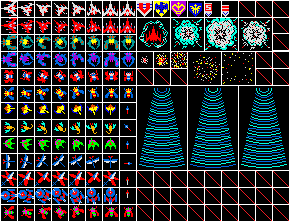
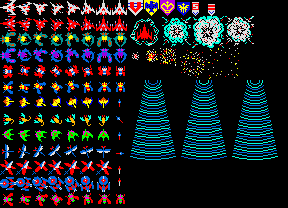
fixed graphics

diff --git a/source/states/play_state.py b/source/states/play_state.py
@@ -26,13 +26,13 @@ class Play(_State):
     STAGE_1, STAGE_5, STAGE_10 =  1, 5, 10
     STAGE_20, STAGE_30, STAGE_50 = 20, 30, 50
     GRAPHICS = {
-        LIFE: setup.grab_cells(6, 0, x_off=1, y_off=1, x_gap=1, y_gap=1),
-        STAGE_1: setup.grab(222, 1, 7, 16),
-        STAGE_5: setup.grab(205, 1, 7, 16),
-        STAGE_10: setup.grab(189, 1, 14, 16),
-        STAGE_20: setup.grab(171, 1, 16, 16),
-        STAGE_30: setup.grab(154, 1, 16, 16),
-        STAGE_50: setup.grab(137, 1, 16, 16),
+        LIFE: setup.grab_cells(6, 0),
+        STAGE_1: setup.grab(208, 0, 7, 16),
+        STAGE_5: setup.grab(192, 0, 7, 16),
+        STAGE_10: setup.grab(177, 0, 14, 16),
+        STAGE_20: setup.grab(160, 0, 15, 16),
+        STAGE_30: setup.grab(144, 0, 16, 16),
+        STAGE_50: setup.grab(128, 0, 16, 16),
     }
     BLINK_1UP = 0.45 # seconds
     STAGE_DURATION = 1.6 # ''
@@ -58,7 +58,7 @@ class Play(_State):
         self.highscore = persist.get("highscore")
         self.score = 0
         self.extra_lives = 3
-        self.stage_num = 0 # stage 0 is start
+        self.stage_num = 0
         self.state = self.START
         self.stage = None
         self.stage_badges = None
@@ -67,6 +67,7 @@ class Play(_State):
         self.shots = 0
         self.hits = 0
         self.stage_start = self.current_time
+        self.done_spawning = False
         self.bounds = pygame.Rect(0, 20, c.WIDTH, c.HEIGHT - 40)
         # star background
         self.moving = False
@@ -112,6 +113,8 @@ class Play(_State):
                               self.missiles, False, True)
                 for enemy, hits in enemy_hits.items():
                     enemy.hit()
+                if self.done_spawning and not self.enemies:
+                    self.switch_state(self.STAGE_CHANGE)
 
         # update timers
         if self.transition_timer and self.transition_timer > 0:
@@ -136,6 +139,9 @@ class Play(_State):
         if self.enemy_missiles: self.enemy_missiles.draw(screen)
         self.show_state(screen, dt)
         self.draw_hud(screen, dt)
+        # debug draw status
+        t = self.MAIN_FONT.render(self.state, False, pygame.Color("purple"))
+        screen.blit(t, (30, 30))
 
     def switch_state(self, new_state):
         """
@@ -243,7 +249,7 @@ class Play(_State):
             screen.blit(self.GRAPHICS[self.STAGE_20], (draw_x, h, 16, 16))
         for n in range(self.stage_badges[self.STAGE_30]):
             draw_x -= 16
-            screen.blit(self.GRAPHICS[self.STAGE_30], (draw_x, g, 16, 16))
+            screen.blit(self.GRAPHICS[self.STAGE_30], (draw_x, h, 16, 16))
         for n in range(self.stage_badges[self.STAGE_50]):
             draw_x -= 16
             screen.blit(self.GRAPHICS[self.STAGE_50], (draw_x, h, 16, 16))
@@ -278,6 +284,7 @@ class Play(_State):
 
     @threaded
     def startup_stage(self):
+        self.done_spawning = False
         for i, wave_g in enumerate(self.stage.wave_groups):
             for j, wave in enumerate(wave_g):
                 path = wave.path
@@ -288,6 +295,7 @@ class Play(_State):
                     self.enemies.add(e)
                     time.sleep(self.NEW_ENEMY_WAIT)
             time.sleep(self.NEW_WAVE_WAIT)
+        self.done_spawning = True
 
     def next_stage(self):
         setup.SFX["stage award"].play()

diff --git a/source/components/missile.py b/source/components/missile.py
@@ -4,8 +4,8 @@ import pygame
 from .. import setup
 
 class Missile(pygame.sprite.Sprite):
-    player_speed = 350
-    enemy_speed = 300
+    PLAYER_SPEED = 350
+    ENEMY_SPEED = 300
 
     def __init__(self, loc, vel, enemy):
         pygame.sprite.Sprite.__init__(self)
@@ -16,17 +16,16 @@ class Missile(pygame.sprite.Sprite):
         self.rect = pygame.Rect(0, 0, 2, 10)
         self.rect.center = loc
 
-        sheet = setup.GFX["sheet"]
         if self.enemy:
-            self.image = sheet.subsurface((125,105,3,8))
+            self.image = setup.grab(118, 100, 3, 8)
         else:
-            self.image = sheet.subsurface((125,190,3,8))
+            self.image = setup.grab(118, 178, 3, 8)
 
     def update(self, dt, bounds):
         if self.enemy:
-            vel = self.vel * self.enemy_speed * dt
+            vel = self.vel * self.ENEMY_SPEED * dt
         else:
-            vel = self.vel * self.player_speed * dt
+            vel = self.vel * self.PLAYER_SPEED * dt
         self.rect.x += round(vel.x)
         self.rect.y += round(vel.y)
         if not bounds.contains(self.rect):

diff --git a/source/setup.py b/source/setup.py
@@ -12,7 +12,7 @@ SCREEN = pygame.display.set_mode([2 * x for x in c.SCREEN_SIZE])
 
 FONTS = tools.load_all_fonts(os.path.join("resources", "fonts"), [".ttf"])
 SFX = tools.load_all_sfx(os.path.join("resources", "audio"), [".ogg"])
-GFX = tools.load_all_gfx(os.path.join("resources", "graphics"), [".png"])
+GFX = tools.load_all_gfx(os.path.join("resources", "graphics"), (0,0,0), [".png"])
 
 def grab(x, y, w, h, image="sheet"):
     sheet = GFX.get(image)
@@ -23,9 +23,8 @@ def grab(x, y, w, h, image="sheet"):
 
 def grab_cells(x, y, w=1, h=1, cell_w=16, cell_h=16, x_off=0, y_off=0, x_gap=0, y_gap=0,
               image="sheet"):
-    xx = x_off + x * (w + x_gap)
-    yy = y_off + y * (h + y_gap)
-    return grab(xx, yy, w * cell_w, h * cell_h, image)
-
-def grab_cell_1(x, y, w=1, h=1, image="sheet"):
-    return grab_cells(x, y, w, h, x_off=1, y_off=1, x_gap=1, y_gap=1, image=image)
+    xx = x * (cell_w + x_gap) + x_off
+    yy = y * (cell_h + y_gap) + y_off
+    ww = w * cell_w
+    hh = h * cell_h
+    return grab(xx, yy, ww, hh, image)

diff --git a/source/tools.py b/source/tools.py
@@ -9,6 +9,7 @@ import pygame
 from . import scoring
 from . import constants as c
 
+# function decorator
 def threaded(fn):
     def wrapper(*args, **kwargs):
         thread = threading.Thread(target=fn, args=args, kwargs=kwargs, daemon=True)
@@ -22,7 +23,7 @@ def lerp(start, stop, percent):
 def map(value, istart, istop, ostart, ostop):
     return ostart + (ostop - ostart) * ((value - istart) / (istop - istart))
 
-def load_all_gfx(directory, color_key=(0,0,0), accept=(".png",".bmp",".gif")):
+def load_all_gfx(directory, colorkey=[0,0,0], accept=(".png",".bmp",".gif")):
     graphics = {}
     for filename in os.listdir(directory):
         name, ext = os.path.splitext(filename)
@@ -32,7 +33,7 @@ def load_all_gfx(directory, color_key=(0,0,0), accept=(".png",".bmp",".gif")):
                 img = img.convert_alpha()
             else:
                 img = img.convert()
-                img.set_colorkey(color_key)
+                img.set_colorkey(colorkey)
             graphics[name] = img
     return graphics
 

diff --git a/source/components/enemies.py b/source/components/enemies.py
@@ -19,11 +19,11 @@ class Enemy(pygame.sprite.Sprite):
     TIME_BT_POINTS = 0.7 # time between points in the paths
 
     EXPLOSION = [
-        setup.grab_cell_1(8, 3),
-        setup.grab_cell_1(9, 3),
-        setup.grab_cell_1(10, 3),
-        setup.grab_cell_1(11, 3, 2, 2),
-        setup.grab_cell_1(13, 3, 2, 2),
+        setup.grab_cells(8, 3),
+        setup.grab_cells(9, 3),
+        setup.grab_cells(10, 3),
+        setup.grab_cells(11, 3, 2, 2),
+        setup.grab_cells(13, 3, 2, 2),
     ]
 
     def __init__(self, loc, path, formation_spot=None, img_row=2, frames=8):
@@ -40,7 +40,7 @@ class Enemy(pygame.sprite.Sprite):
         self.setup_images(img_row, frames)
 
     def setup_images(self, img_row, frames):
-        self.images = [setup.grab(1+x*17,1+img_row*17,16,16) for x in range(frames)]
+        self.images = [setup.grab_cells(x, img_row) for x in range(frames)]
         self.animation_index = 0
         self.image = self.images[self.animation_index]
 

diff --git a/source/components/player.py b/source/components/player.py
@@ -13,7 +13,7 @@ class Player(pygame.sprite.Sprite):
         self.controllable = True
         self.rect = pygame.Rect(0, 0, 15, 15)
         self.rect.center = (c.WIDTH/2, c.HEIGHT-self.rect.height//2-25)
-        self.image = setup.grab_cell_1(6, 0)
+        self.image = setup.grab_cells(6, 0)
         self.last_fire_time = 0
 
     def update(self, dt, keys):
